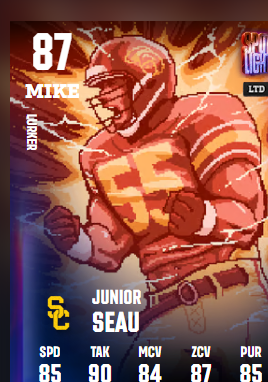
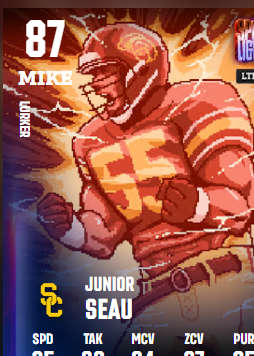
match My Team reference card footprint

diff --git a/src/operation_pancake/c3po_roster_page.py b/src/operation_pancake/c3po_roster_page.py
@@ -20,8 +20,8 @@ LINEUP_STYLE = """
 .team-header .eyebrow{grid-column:1}.team-header h1{grid-column:1;font-size:26px}.team-subtitle{grid-column:1;margin-top:0}.team-header .update-team{grid-column:2;grid-row:1/4;position:static;align-self:center}
 .lineup-tabs{display:flex;gap:32px;border-bottom:1px solid #26303b;margin:0 0 12px;padding:0 2px}.lineup-tabs button{appearance:none;background:none;border:0;position:relative;padding:11px 0 9px;color:#91a0b0;font:inherit;font-size:12px;font-weight:900;letter-spacing:.05em;white-space:nowrap;cursor:pointer}.lineup-tabs button.active{color:#f5f7fa}.lineup-tabs button.active:after{content:"";position:absolute;left:0;right:0;bottom:-1px;height:2px;background:#f5b642}
 .roster-view{display:none;margin:0 0 18px}.roster-view.active{display:block}.section-heading{margin:0 0 8px;border:0}.section-heading h2{font-size:12px;margin:0;color:#f5b642;letter-spacing:.12em}
-.position-grid{display:grid;grid-template-columns:repeat(6,minmax(0,1fr));gap:26px 12px;align-items:stretch}.specialists-grid{grid-template-columns:repeat(5,minmax(0,1fr))}.position-group{min-width:0}.position-group h3{height:18px;margin:0 0 5px;color:#91a0b0;font-size:11px;font-weight:500;line-height:18px;text-align:center}
-.feature-card{aspect-ratio:254/356;max-width:220px;width:100%;margin:0 auto;position:relative;overflow:hidden;padding:0;background:linear-gradient(145deg,#243246 0%,#15202d 48%,#0d141d 100%);border:1px solid #3b495a;border-radius:3px;box-shadow:0 5px 14px #0004}.feature-card:before{content:"";position:absolute;inset:0;background:linear-gradient(135deg,transparent 48%,#f5b64212 49%,transparent 52%);pointer-events:none}.feature-art{position:absolute;inset:0;width:100%;height:100%;object-fit:contain;object-position:top center}.feature-slot{position:relative;z-index:2;font-size:9px;line-height:12px;color:#a9b7c7;text-shadow:0 1px 3px #000}.feature-copy{position:absolute;z-index:2;left:9px;right:9px;bottom:10px;display:grid;gap:3px}.feature-program{font-size:8px;line-height:10px;color:#9eabb9;text-transform:uppercase;text-shadow:0 1px 3px #000}.feature-program.program-missing{color:#718091}.feature-card:has(.feature-art) .feature-slot,.feature-card:has(.feature-art) .feature-copy{display:none}.feature-card:has(.feature-art):before{display:none}
+.position-grid{display:grid;grid-template-columns:repeat(6,minmax(0,1fr));gap:26px 12px;align-items:stretch}.specialists-grid{grid-template-columns:repeat(5,minmax(0,1fr))}.position-group{min-width:0;overflow:hidden}.position-group h3{height:18px;margin:0 0 5px;color:#91a0b0;font-size:11px;font-weight:500;line-height:18px;text-align:center}
+.feature-card{aspect-ratio:254/356;max-width:160px;width:100%;margin:0 auto;position:relative;overflow:hidden;padding:0;background:linear-gradient(145deg,#243246 0%,#15202d 48%,#0d141d 100%);border:1px solid #3b495a;border-radius:3px;box-shadow:0 5px 14px #0004}.feature-card:before{content:"";position:absolute;inset:0;background:linear-gradient(135deg,transparent 48%,#f5b64212 49%,transparent 52%);pointer-events:none}.feature-art{position:absolute;inset:0;width:100%;height:100%;object-fit:contain;object-position:top center}.feature-slot{position:relative;z-index:2;font-size:9px;line-height:12px;color:#a9b7c7;text-shadow:0 1px 3px #000}.feature-copy{position:absolute;z-index:2;left:9px;right:9px;bottom:10px;display:grid;gap:3px}.feature-program{font-size:8px;line-height:10px;color:#9eabb9;text-transform:uppercase;text-shadow:0 1px 3px #000}.feature-program.program-missing{color:#718091}.feature-card:has(.feature-art) .feature-slot,.feature-card:has(.feature-art) .feature-copy{display:none}.feature-card:has(.feature-art):before{display:none}
 .player-list{display:grid;gap:5px;margin-top:7px}.player-choice{appearance:none;width:100%;border:1px solid transparent;border-radius:2px;background:#3a4149;color:#fff;padding:7px 8px;display:grid;grid-template-columns:minmax(0,1fr) auto;gap:3px 7px;text-align:left;cursor:pointer;font:inherit}.player-choice:hover{background:#444d57}.player-choice.selected{border-color:#f5b642;background:#454b52}.choice-name{grid-column:1;grid-row:1;font-size:10px;line-height:12px;font-weight:900;text-transform:uppercase;overflow-wrap:normal}.choice-name-long{font-size:8px;line-height:10px}.choice-ovr{grid-column:2;grid-row:1;font-size:13px;line-height:13px;font-weight:900;text-align:right;white-space:nowrap}.choice-program{grid-column:1/3;grid-row:2;font-size:7px;line-height:8px;color:#b1bbc6;text-transform:uppercase}.choice-program.program-missing{color:#778593}.empty-view{grid-column:1/-1;color:#697888}
 @media(max-width:820px){.position-grid,.specialists-grid{grid-template-columns:repeat(3,minmax(0,1fr))}.feature-card{height:165px}}@media(max-width:620px){.position-grid,.specialists-grid{grid-template-columns:repeat(2,minmax(0,1fr))}.lineup-tabs{gap:18px;overflow-x:auto}.team-header{grid-template-columns:1fr}.team-header .update-team{grid-column:1;grid-row:auto;justify-self:start}.feature-card{height:155px}}@media(max-width:420px){.position-grid,.specialists-grid{grid-template-columns:1fr}.feature-card{height:145px}.lineup-tabs{gap:14px}}
 </style>

diff --git a/tests/test_c3po_card_size.py b/tests/test_c3po_card_size.py
@@ -2,7 +2,7 @@ from operation_pancake.c3po_roster import C3POPlayer, C3PORoster
 from operation_pancake.c3po_roster_page import render_c3po_roster
 
 
-def test_desktop_cards_match_normalized_art_ratio_and_fill_column():
+def test_desktop_cards_use_reference_geometry_without_overflow():
     roster = C3PORoster(
         tuple(C3POPlayer("OFFENSE", f"X{i}", f"Player {i}", 85) for i in range(6)),
         "fake",
@@ -13,6 +13,7 @@ def test_desktop_cards_match_normalized_art_ratio_and_fill_column():
 
     assert "grid-template-columns:repeat(6,minmax(0,1fr))" in page
     assert ".feature-card{aspect-ratio:254/356" in page
-    assert "max-width:220px" in page
+    assert "max-width:160px" in page
     assert "object-fit:contain" in page
+    assert ".position-group{min-width:0;overflow:hidden}" in page
     assert ".player-list{display:grid" in page
